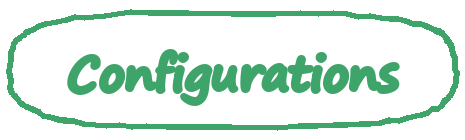
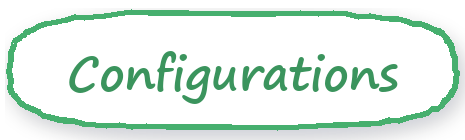
Premium hand-drawn redesign: watercolor sticker cards, gradient lettering, remove IEEE T-CYB

Changed region(s): [[0.1204, 0.3429, 0.8731, 0.7714], [0.0301, 0.3714, 1.0, 1.0], [0.6323, 0.8571, 0.6925, 0.8857]]

diff --git a/README.md b/README.md
@@ -1,6 +1,6 @@
 <div align="center">
 
-<img src="docs/assets/hero.png" width="100%" alt="MGA — Mirror Gradient Ascent for Asynchronous Federated Unlearning"/>
+<img src="docs/assets/hero.png?v=3" width="100%" alt="MGA — Mirror Gradient Ascent for Asynchronous Federated Unlearning"/>
 
 ### ✨ Forget Selectively · Learn Better · Together ✨
 
@@ -12,25 +12,28 @@
 ---
 
 <div align="center">
-<img src="docs/assets/sec-why.png" height="58" alt="Why MGA?"/>
+<img src="docs/assets/sec-why.png?v=3" height="58" alt="Why MGA?"/>
 </div>
 
-| | |
-|:---|:---|
-| 🌱 **No affected-group retraining**<br>Unlearn target clients *without* retraining their whole group. | 🗄 **Staleness-aware reference model**<br>Retained clients with different training speeds contribute with proper weights. |
-| 🎯 **Adaptive reverse budget**<br>Each target client gets a personalized unlearning budget based on its own history. | 🚀 **Fast recovery with retained clients**<br>Aggregate returned models and quickly resume training. |
+<div align="center">
+
+<img src="docs/assets/card-why1.png?v=3" width="49%" alt="No affected-group retraining"/> <img src="docs/assets/card-why2.png?v=3" width="49%" alt="Staleness-aware reference model"/>
+
+<img src="docs/assets/card-why3.png?v=3" width="49%" alt="Adaptive reverse budget"/> <img src="docs/assets/card-why4.png?v=3" width="49%" alt="Fast recovery with retained clients"/>
+
+</div>
 
 ---
 
 <div align="center">
-<img src="docs/assets/sec-method.png" height="58" alt="Method Overview"/>
+<img src="docs/assets/sec-method.png?v=3" height="58" alt="Method Overview"/>
 </div>
 
-*From forgetting to a better global model, in four steps:*
+<div align="center">
 
-| 1⃣ Grouped Async FL | 2⃣ Reference Model | 3⃣ Reverse Optimization | 4⃣ Resume Training |
-|:---:|:---:|:---:|:---:|
-| Clients are **grouped by local training speed**. | A **staleness-aware reference** model is built from retained clients. | Each target client runs **budget-bounded local reverse updates**. | Returned models are **aggregated** and training quickly resumes. |
+<img src="docs/assets/card-m1.png?v=3" width="24%" alt="Step 1 — Grouped Async FL"/> <img src="docs/assets/card-m2.png?v=3" width="24%" alt="Step 2 — Reference Model"/> <img src="docs/assets/card-m3.png?v=3" width="24%" alt="Step 3 — Reverse Optimization"/> <img src="docs/assets/card-m4.png?v=3" width="24%" alt="Step 4 — Resume Training"/>
+
+</div>
 
 > 📌 This page intentionally keeps things high-level — the full formulation lives in the paper,
 > with implementation notes in [`docs/implementation.md`](docs/implementation.md).
@@ -38,21 +41,21 @@
 ---
 
 <div align="center">
-<img src="docs/assets/sec-results.png" height="58" alt="Results Snapshot"/>
+<img src="docs/assets/sec-results.png?v=3" height="58" alt="Results Snapshot"/>
 </div>
 
-*Effective unlearning, stronger models:*
+<div align="center">
 
-| 🧊 CIFAR-10 | ✍ MNIST | 🛒 Purchase |
-|:---:|:---:|:---:|
-| **~25% faster** than full retraining to reach the 70% accuracy mark. | **Highest final accuracy** among no-retrain baselines. | **Backdoor robustness closest to retraining** in 15 / 18 settings. |
+<img src="docs/assets/card-res1.png?v=3" width="32%" alt="CIFAR-10 results"/> <img src="docs/assets/card-res2.png?v=3" width="32%" alt="MNIST results"/> <img src="docs/assets/card-res3.png?v=3" width="32%" alt="Purchase results"/>
 
-<sup>Full curves and the evaluation protocol are available in the paper and [`docs/`](docs).</sup>
+</div>
+
+<sup>Illustrative sketches — full curves and the evaluation protocol are available in the paper and [`docs/`](docs).</sup>
 
 ---
 
 <div align="center">
-<img src="docs/assets/sec-quickstart.png" height="58" alt="Quick Start"/>
+<img src="docs/assets/sec-quickstart.png?v=3" height="58" alt="Quick Start"/>
 </div>
 
 ```bash
@@ -96,19 +99,19 @@ python validate_mga_run.py --run ./runs/cifar10 --device cuda:0
 ---
 
 <div align="center">
-<img src="docs/assets/sec-links.png" height="58" alt="Useful Links"/>
+<img src="docs/assets/sec-links.png?v=3" height="58" alt="Useful Links"/>
 </div>
 
 <div align="center">
 
-<a href="docs/implementation.md"><img src="docs/assets/btn-method.png" height="48" alt="Method Notes"/></a> <a href="docs/configurations.md"><img src="docs/assets/btn-configs.png" height="48" alt="Configurations"/></a> <a href="NOTICE"><img src="docs/assets/btn-plato.png" height="48" alt="Built on Plato / KNOT"/></a>
+<a href="docs/implementation.md"><img src="docs/assets/btn-method.png?v=3" height="48" alt="Method Notes"/></a> <a href="docs/configurations.md"><img src="docs/assets/btn-configs.png?v=3" height="48" alt="Configurations"/></a> <a href="NOTICE"><img src="docs/assets/btn-plato.png?v=3" height="48" alt="Built on Plato / KNOT"/></a>
 
 </div>
 
 ---
 
 <div align="center">
-<img src="docs/assets/sec-citation.png?v=2" height="58" alt="Citation"/>
+<img src="docs/assets/sec-citation.png?v=3" height="58" alt="Citation"/>
 </div>
 
 If MGA contributes to your research, please consider citing:
@@ -131,6 +134,6 @@ If MGA contributes to your research, please consider citing:
 > ### 💬 *"Selective Forgetting for a More Trustworthy Future."*
 > If you find MGA useful, please consider giving it a **⭐** — thanks for your interest! 🤖💙
 
-<img src="docs/assets/footer.png?v=2" width="72%" alt="Open Research · Smarter AI · A More Trustworthy World"/>
+<img src="docs/assets/footer.png?v=3" width="72%" alt="Open Research · Smarter AI · A More Trustworthy World"/>
 
 </div>
